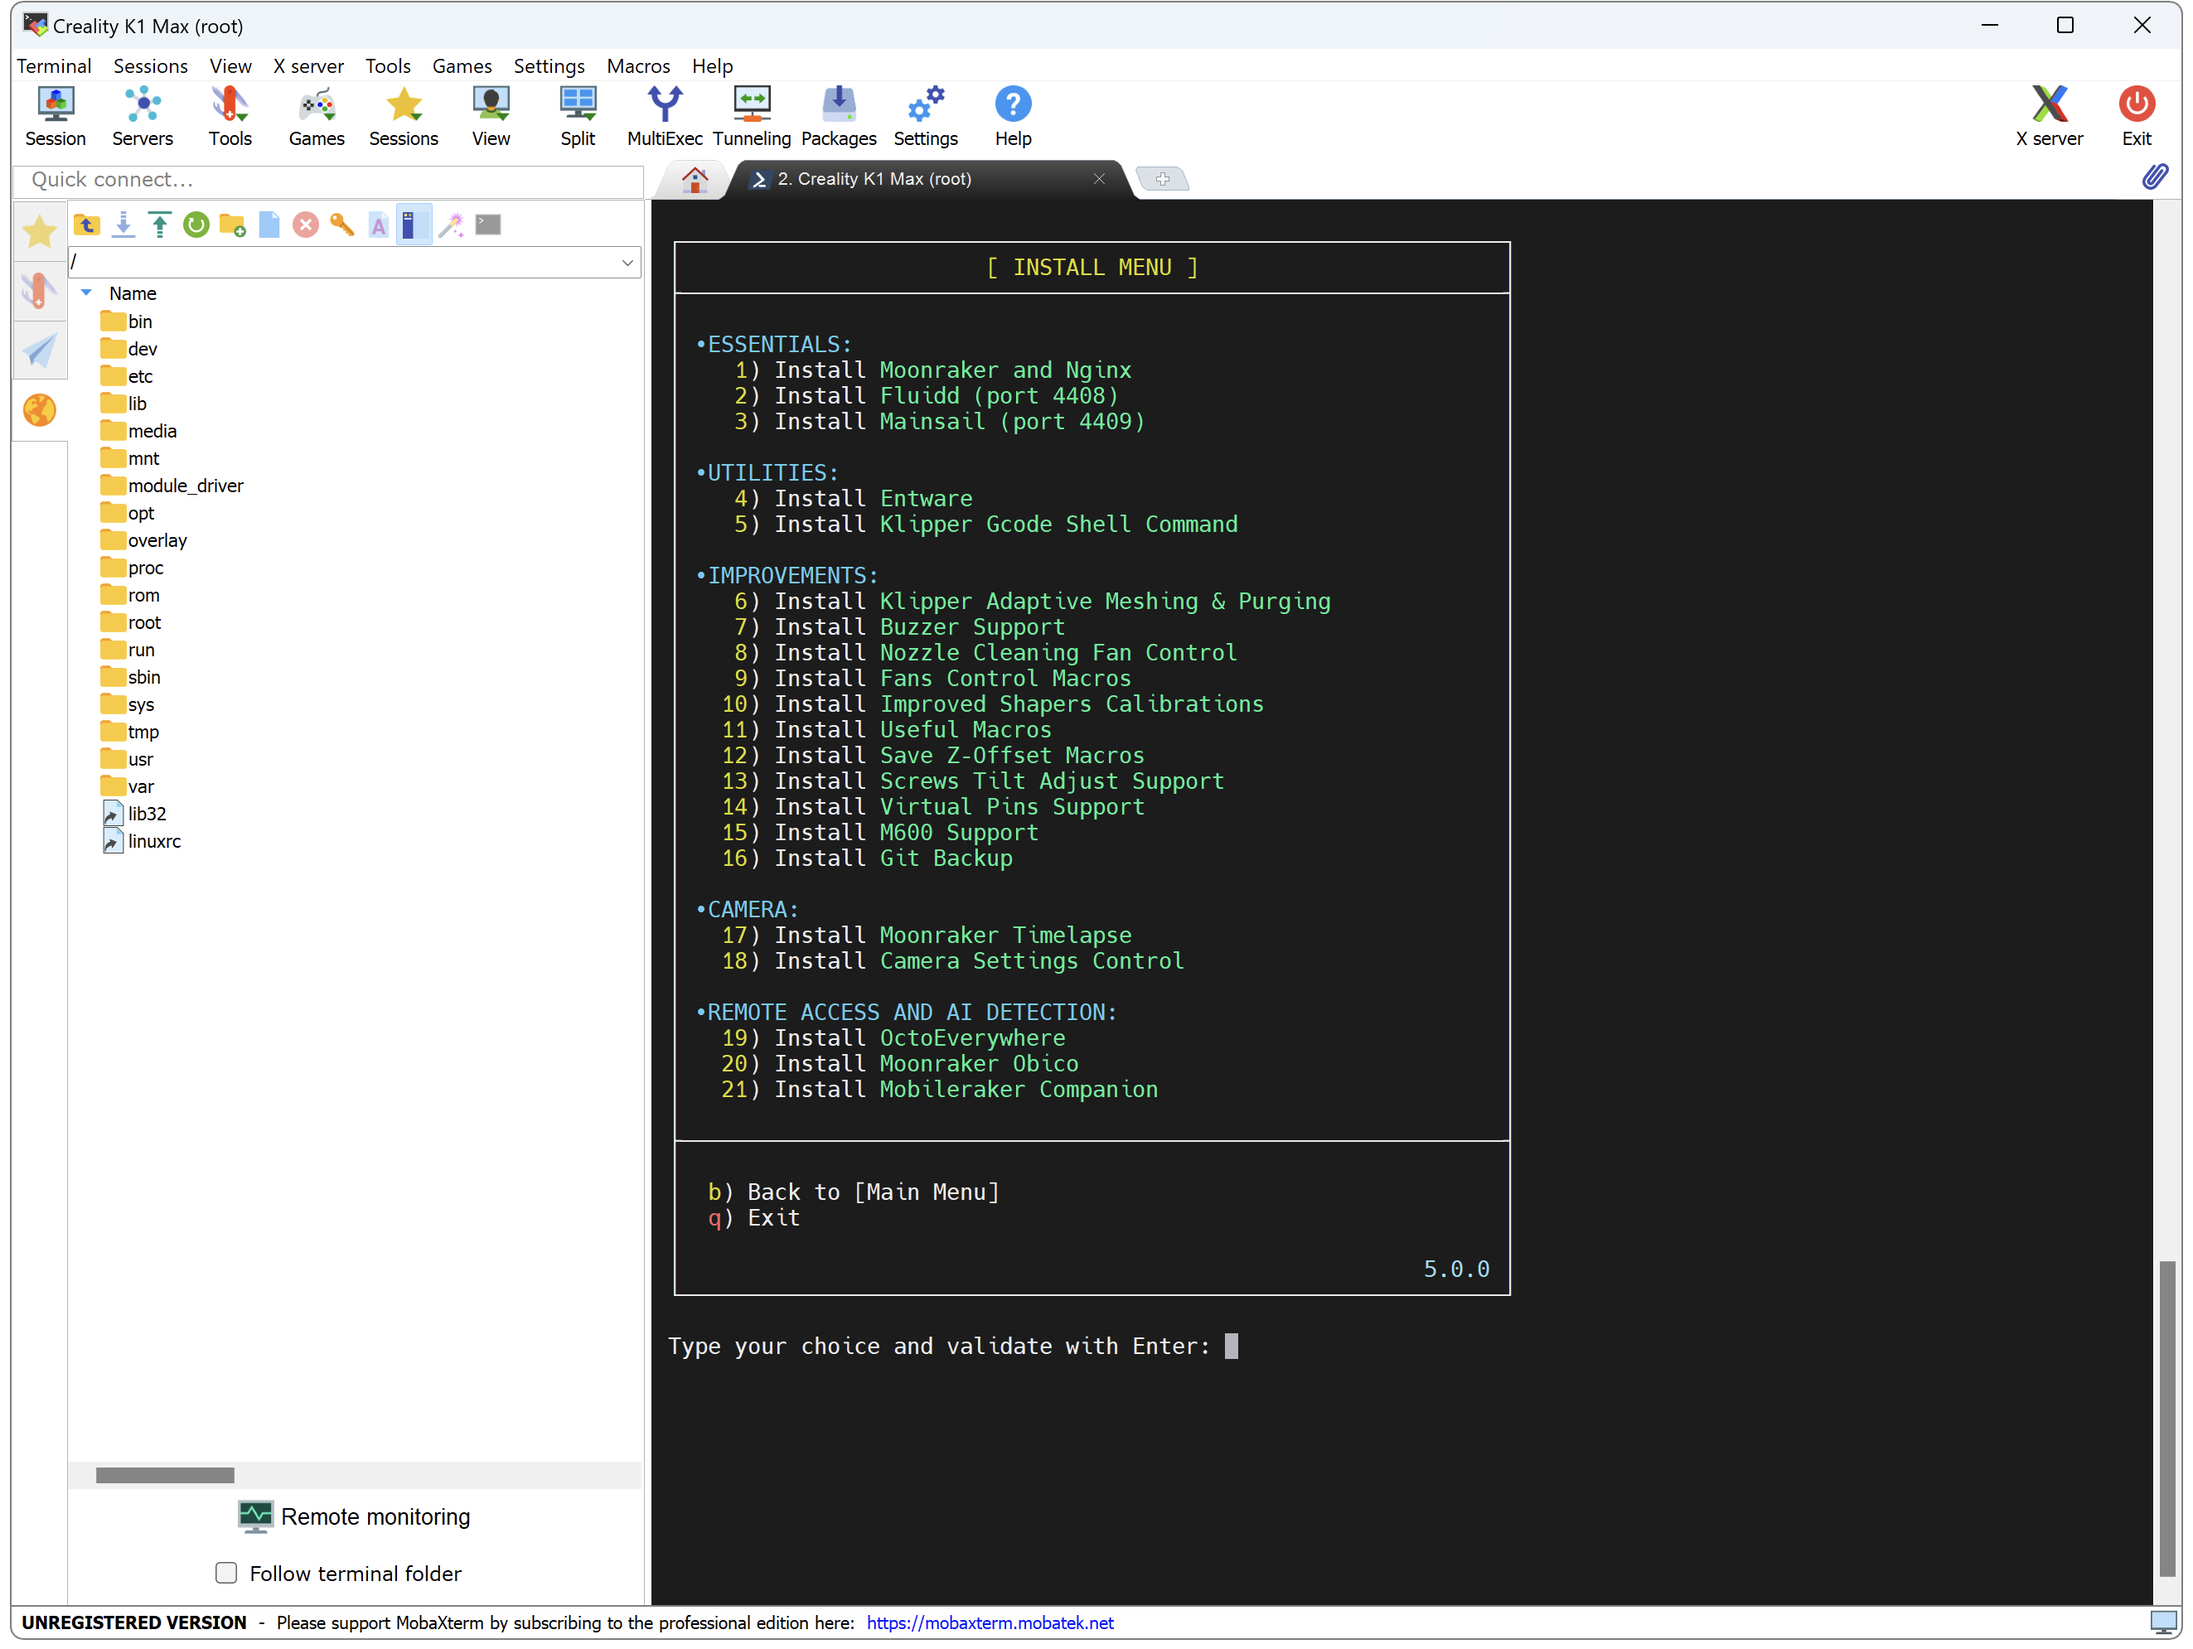
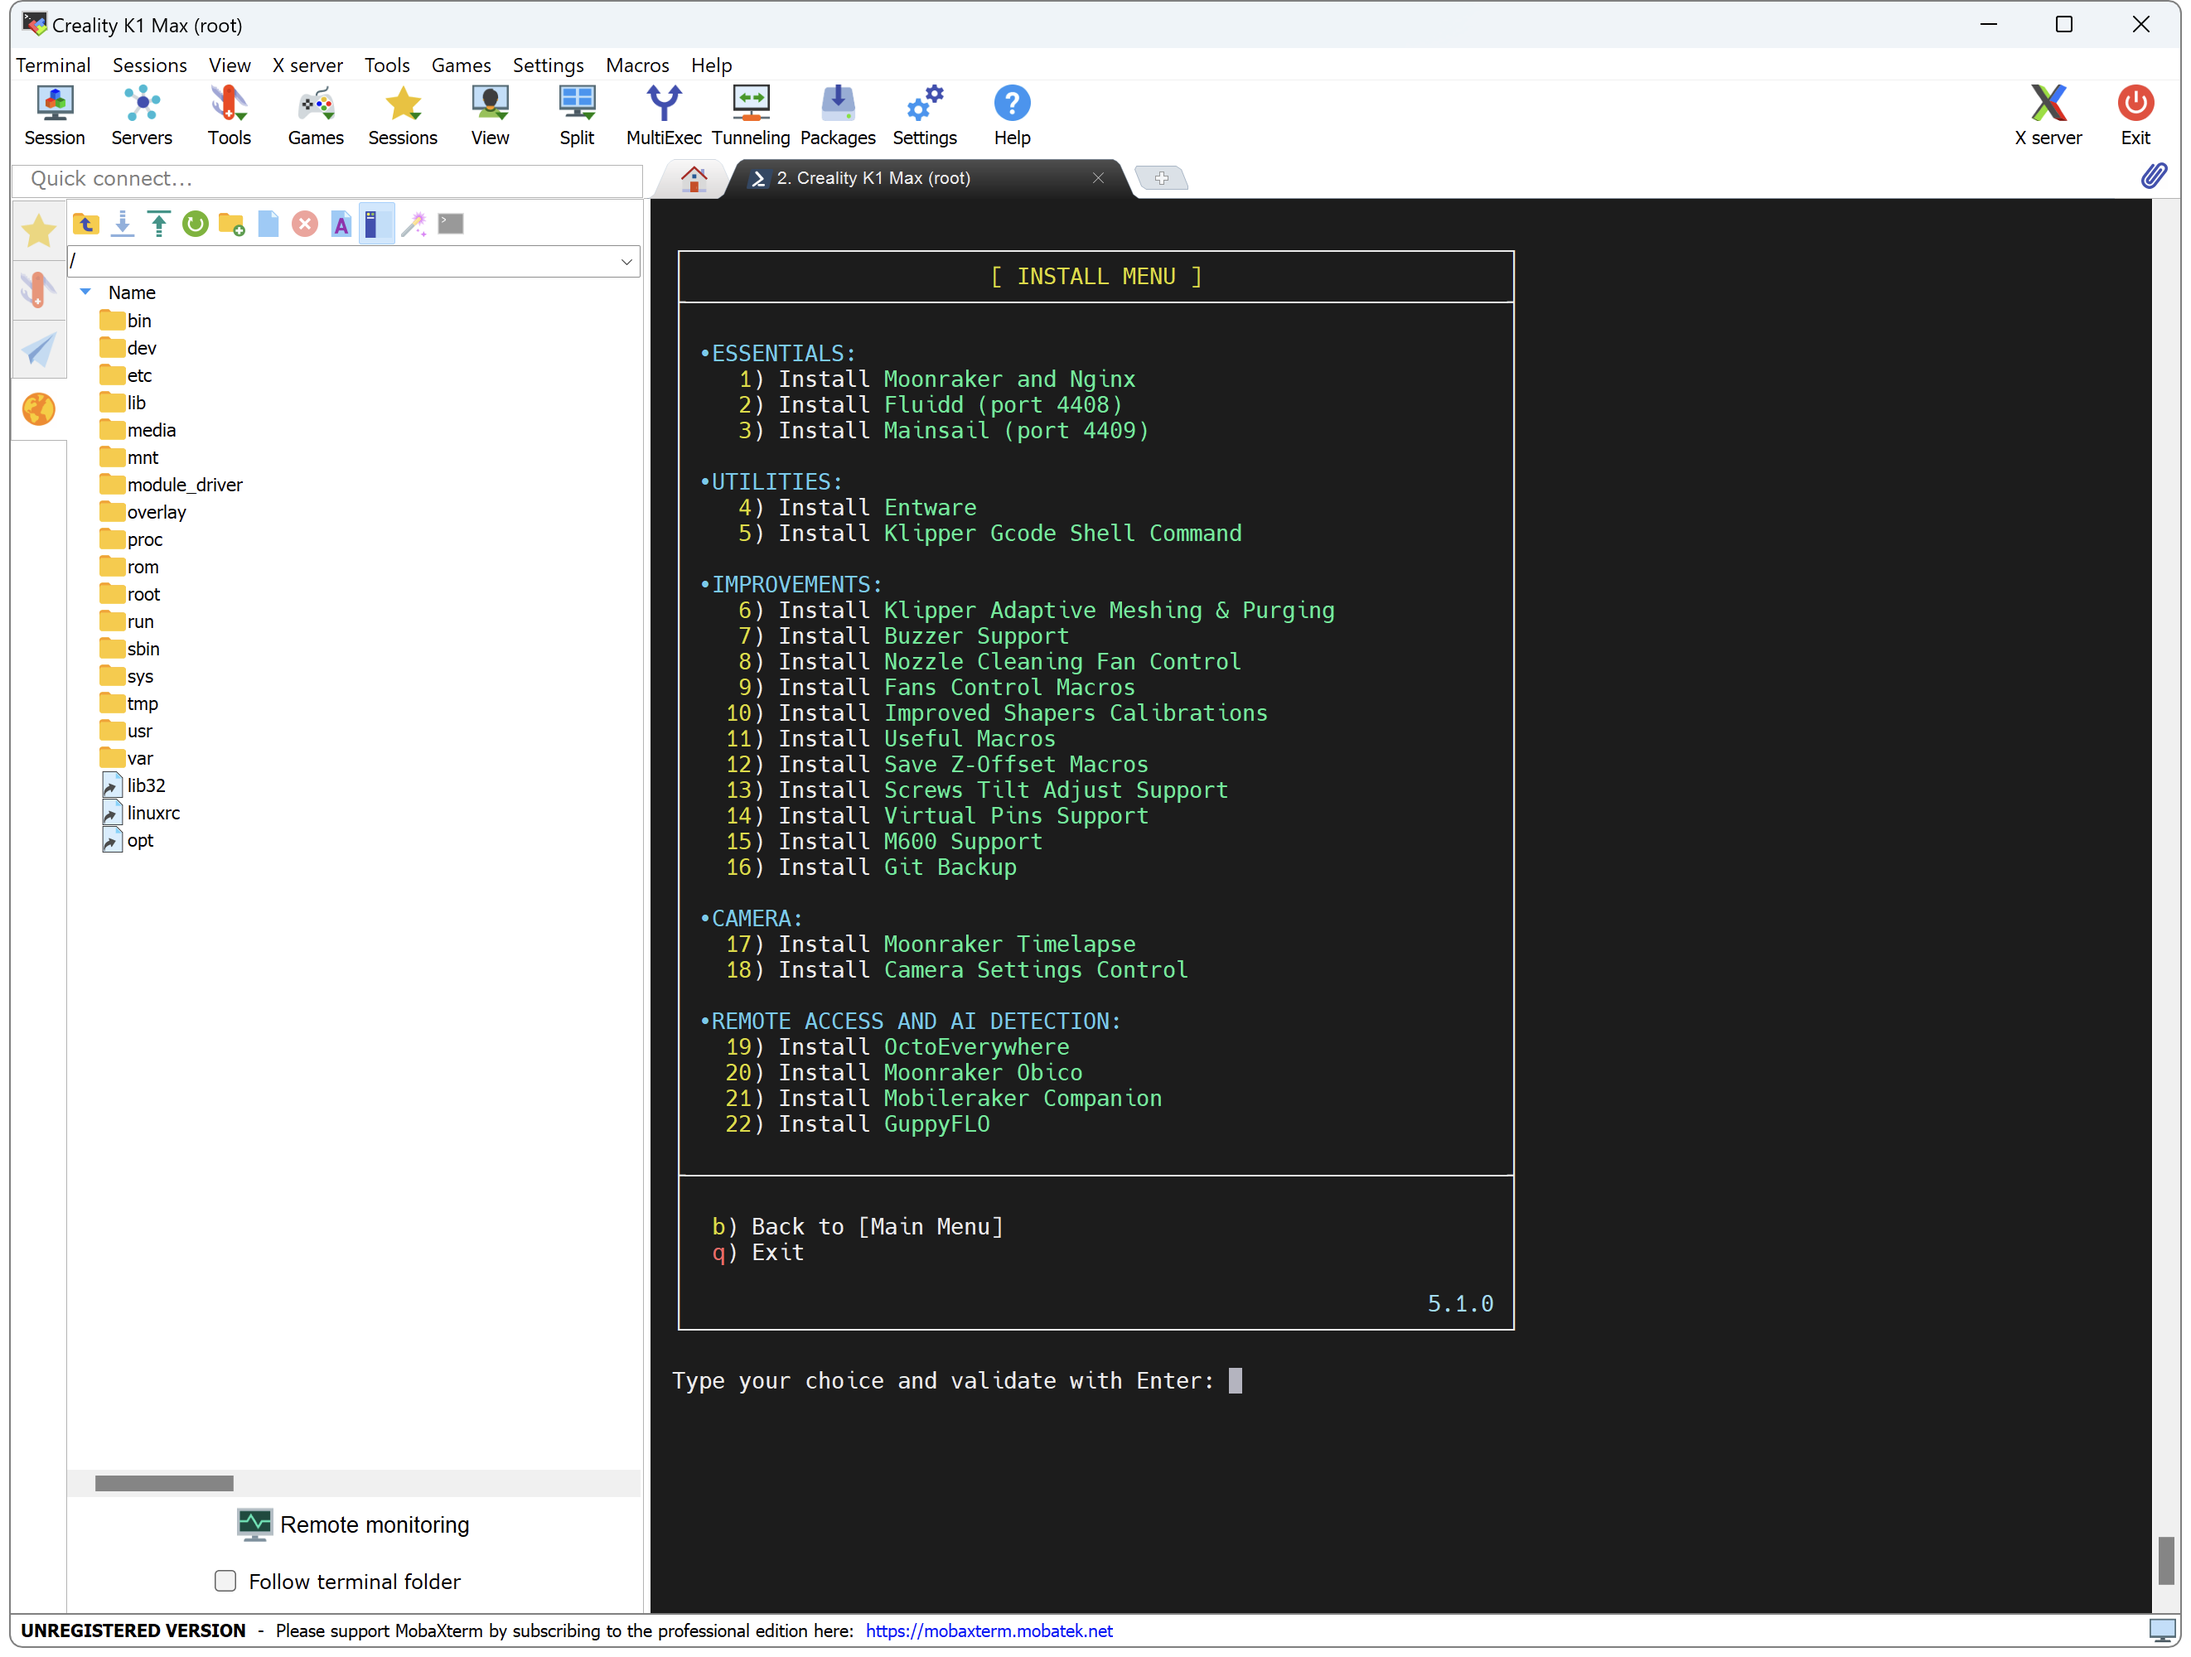
Update

diff --git a/docs/changelog.md b/docs/changelog.md
@@ -4,7 +4,7 @@ hide:
 ---
 #### 23/03/2024
 
-  - Updated script to 5.1.0 to add support for `GuppyFLO`. See new section on wiki [here](helper-script/guppyflo.md)
+  - Updated script to 5.1.0 to add support for `GuppyFLO`. See new section on wiki [here](helper-script/guppyflo.md).
 
 #### 21/03/2024
 
